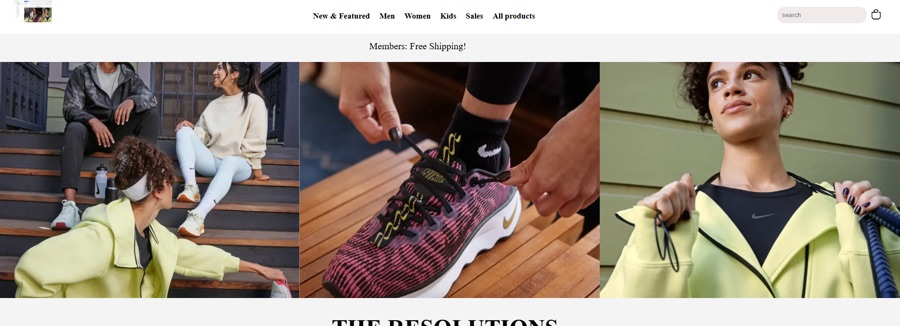
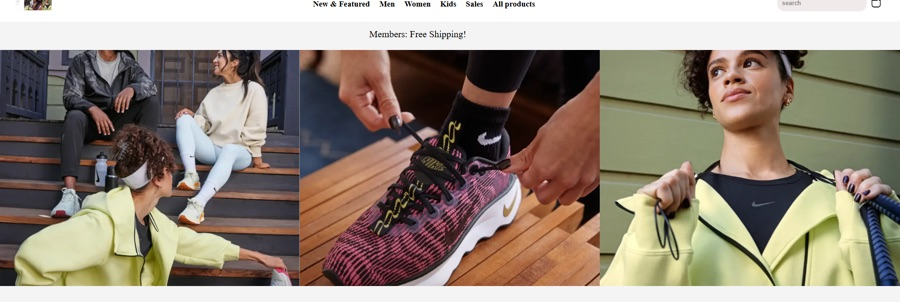
Loop 2: headline width, clean thumbnail crop

diff --git a/style.css b/style.css
@@ -28,7 +28,7 @@ img { display: block; max-width: 100%; height: auto; }
 .label { font: 500 0.75rem var(--mono); letter-spacing: 0.08em; text-transform: uppercase; color: var(--muted); margin: 0; }
 
 .hero { display: grid; grid-template-columns: 1fr; gap: 2.5rem; padding-block: 3rem 5rem; align-items: end; }
-.hero h1 { font: 600 clamp(2.4rem, 6vw, 4.5rem)/1.04 var(--serif); letter-spacing: -0.035em; margin: 1.25rem 0 1.5rem; max-width: 16ch; }
+.hero h1 { font: 600 clamp(2.3rem, 5.2vw, 4rem)/1.04 var(--serif); letter-spacing: -0.035em; margin: 1.25rem 0 1.5rem; max-width: 19ch; }
 .lede { max-width: 38rem; color: var(--muted); margin: 0 0 2rem; }
 .actions { display: flex; gap: 1.5rem; align-items: center; margin: 0; }
 .btn { background: var(--ink); color: var(--paper); padding: 0.75rem 1.25rem; text-decoration: none; font-weight: 500; }

diff --git a/index.html b/index.html
@@ -86,7 +86,7 @@
   <h2 class="label">Projects</h2>
   <ul class="projects">
     <li>
-      <img src="img/dawn-theme.jpg" width="900" height="326" alt="Online sports store home page" loading="lazy">
+      <img src="img/dawn-theme.jpg" width="900" height="302" alt="Online sports store home page" loading="lazy">
       <div>
         <h3>Sports store redesign</h3>
         <p>A Shopify store restyled to look like a big sports brand, with new product sections and a layout that works well on phones.</p>
